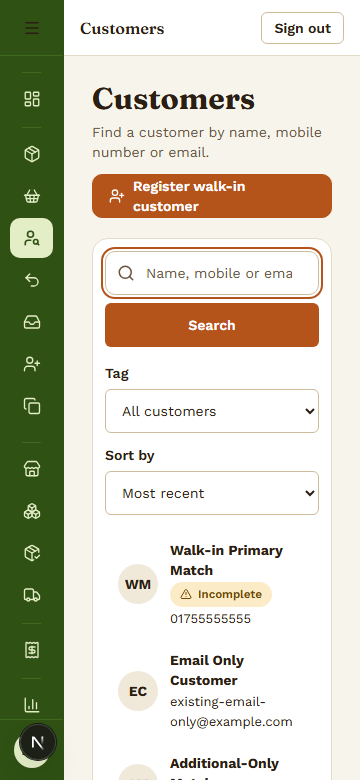
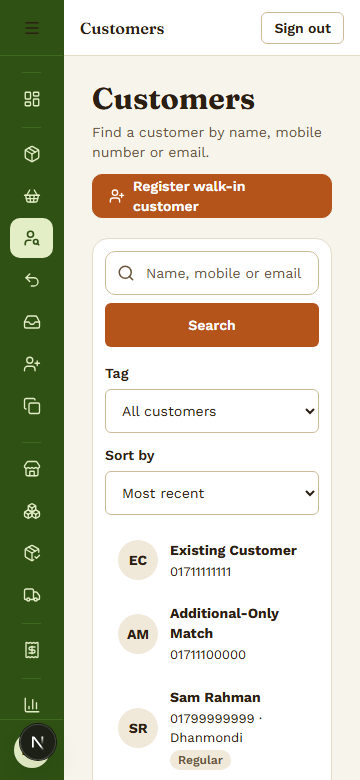
docs(gates): P5-FOLLOWUP-LAYOUT ACCEPTANCE run 3 PASS

diff --git a/docs/gates/P5-FOLLOWUP-LAYOUT-ACCEPTANCE.md b/docs/gates/P5-FOLLOWUP-LAYOUT-ACCEPTANCE.md
@@ -113,3 +113,68 @@ FINDINGS
 
 UNDECLARED DEVIATIONS
 - e7cdce1 and 8d8e2a5 were reported as fixing the placeholder. The placeholder is still visibly cut, and the new test cannot detect it.
+
+---
+
+# Run 3
+
+GATE: ACCEPTANCE
+HANDOVER: P5-FOLLOWUP-LAYOUT (same criteria as runs 1 and 2)
+COMMITS: run 2 set plus 0018449 fb3fcdc 5701f56 (HEAD 5701f56, branch feat/p5-followup-layout)
+DATE: 2026-11-05
+STATUS: PASS
+
+PRIOR GATES
+- ARCHITECTURE / SECURITY / CODE_REVIEW: PASS as recorded, up to 1dd9d10. Run 2's delta review covers c071242, 906e3b7 and e7cdce1. This run's delta review covers fb3fcdc (below).
+- TEST: PASS (P5-FOLLOWUP-LAYOUT-TEST.md and its addendum). I re-ran the specs myself at HEAD (below).
+
+EVIDENCE I GATHERED
+- Started next dev on :3121 with mocks (NEXT_PUBLIC_USE_MOCKS=true, E2E_KEEP_ROUTES=1) at HEAD 5701f56 and stopped it afterwards.
+- Ran a scratch probe, run3.spec.ts, outside the repo: 4/4 pass. It reads the input's real UA shadow parts through CDP (DOM.getDocument with pierce, DOM.getBoxModel, CSS.getComputedStyleForNode). That shows the rendered state of `::-webkit-search-cancel-button` and the placeholder box directly, not inferred from stylesheets.
+- Repo specs p5-followup-layout-360, customers-admin-360 and ordering-staff on chromium and mobile-360, 2 workers: 82/82 pass.
+- ordering-pos on chromium and mobile-360 (the POS caller of SearchField): 18/18 pass.
+- Re-ran the run-2 probe (run2.spec.ts, without its F4 test): 3/3 pass.
+- Refreshed acc-customers-360.png and acc-customers-360-field.png. The specs rewrote pick-list-1280.png and acc-pick-list-360.png as a side effect, and I restored both to their committed versions.
+
+CRITERIA
+- S4 F4: MET. Run-2 finding 1 is closed.
+  - Empty field at 360: the input is 214 px wide (clientWidth 212). The `-webkit-input-placeholder` box is 160 px wide and the placeholder text measures 155.7 px. The `-webkit-search-cancel-button` part computes `display: none` and has no box, and the editing viewport has the full 160 px. acc-customers-360-field.png shows the whole "Name, mobile or email". The page has no horizontal overflow.
+  - Typed "Rahman": the cancel button is back (`display: block`, a 10x10 box at x=293, visible as an x in the field screenshot). The editing viewport narrows to 146 px, and "Rahman" does not scroll (scrollWidth 212 = clientWidth 212).
+  - Cleared again: the cancel button returns to `display: none`.
+  - Test: 5701f56 asserts that the field is empty and that an author rule with display:none matches `<input>:placeholder-shown::-webkit-search-cancel-button`, then compares the canvas width with the padding box. This is a structural proxy (it checks that the rule exists, not how the field renders). Together with the canvas fit it does guard this regression, and the integrator reports it fails with fb3fcdc reverted. My CDP measurement is independent evidence for the rendered result. Non-blocking.
+- S4 F5: MET. No source change since run 2 (`git diff 8009c2c..HEAD` touches only SearchField.tsx, the spec and docs). The spec passes on both projects.
+- S4 F7: MET. Unchanged, and the spec passes on both projects.
+- S2 order panels: MET. Unchanged, and the spec passes on both projects.
+- S2 money tiles: MET. Probe: all 13 figures are 1 line at 360. The squeeze sensitivity check still gives [1,1,1,1,1,5,1,5,5,5,3,5,1]. The spec passes on both projects.
+- S2 pick list: MET.
+  - At 360 the region's scrollWidth is 182 and its clientWidth is 182, with no page overflow.
+  - splitWords returns [], and the inline Expires span stays inside its 52 px cell (ends at x=226, cell at x=232).
+  - Print: the Expires header is visible, the date cell is a table-cell, and the inline copy is display:none.
+- S3 F2: MET. Unchanged, and the spec passes on both projects (Status fits at 1280, Product column at 360).
+
+DELTA REVIEW OF fb3fcdc (shared SearchField)
+- The change adds one Tailwind arbitrary variant, `[&:placeholder-shown::-webkit-search-cancel-button]:hidden`. It is presentational only, adds no dependency, and adds nothing for security to review. In browsers that don't support the WebKit pseudo-element (Firefox), the selector matches nothing, so it has no effect there.
+- POS scan field (`emphasis="scan"`, type=text): unaffected. Its UA shadow tree has no cancel-button part, so the selector cannot match. The placeholder box and editor are unchanged, at 184 px. ordering-pos passes 18/18.
+- Staff order queue at 360 (type=search): empty, the cancel button is hidden and the placeholder box widens to the full 163 px. Typed "Rafiq", the cancel button appears (10x10) and the editor is 149 px.
+- Report catalogue at 1280: empty, the cancel button is hidden. Typed "sales", it appears.
+- The change also affects CustomerSearchPanel and StaffProductTable. They use the same component and markup, so the same behaviour applies. I did not open them in a browser.
+
+SCOPE
+- Out-of-scope work found: none. fb3fcdc touches only SearchField.tsx, in the minimal form run 2 suggested. 5701f56 touches only the follow-up spec.
+- Files outside allowed scope: none.
+
+FINDINGS
+- [LOW, non-blocking, pre-existing, not caused by this branch] Two other placeholders are still cut at 360. Neither is one of the seven criteria.
+  - The POS scan field: "Scan barcode or type a name" measures 202.6 px against a 184 px box (web/components/pos/PosScanField.tsx:71). This field is type=text, so fb3fcdc cannot affect it.
+  - The staff order queue search: "Order no., customer or mobile" measures 207.8 px against a 163 px box (web/components/orders/StaffOrderQueue.tsx:246). fb3fcdc made it about 14 px wider, which is better but still not enough.
+  Worth a backlog item.
+- [LOW, non-blocking] p5-followup-layout-360.spec.ts:57-82: the hidesCancel assertion is a stylesheet-rule proxy, not a measurement of how the field renders (see F4).
+- Still open from run 2, non-blocking: the TileFigure.tsx notes (a) and (b).
+- Closed: run-2 findings 1 and 2 (F4 placeholder, and a test that could not see the defect).
+
+UNDECLARED DEVIATIONS
+- none
+
+SCOPE CHECK
+- files in allowed scope: 2/2 web files in this delta (SearchField.tsx, p5-followup-layout-360.spec.ts) plus docs/gates artifacts
+- files outside allowed scope: none
